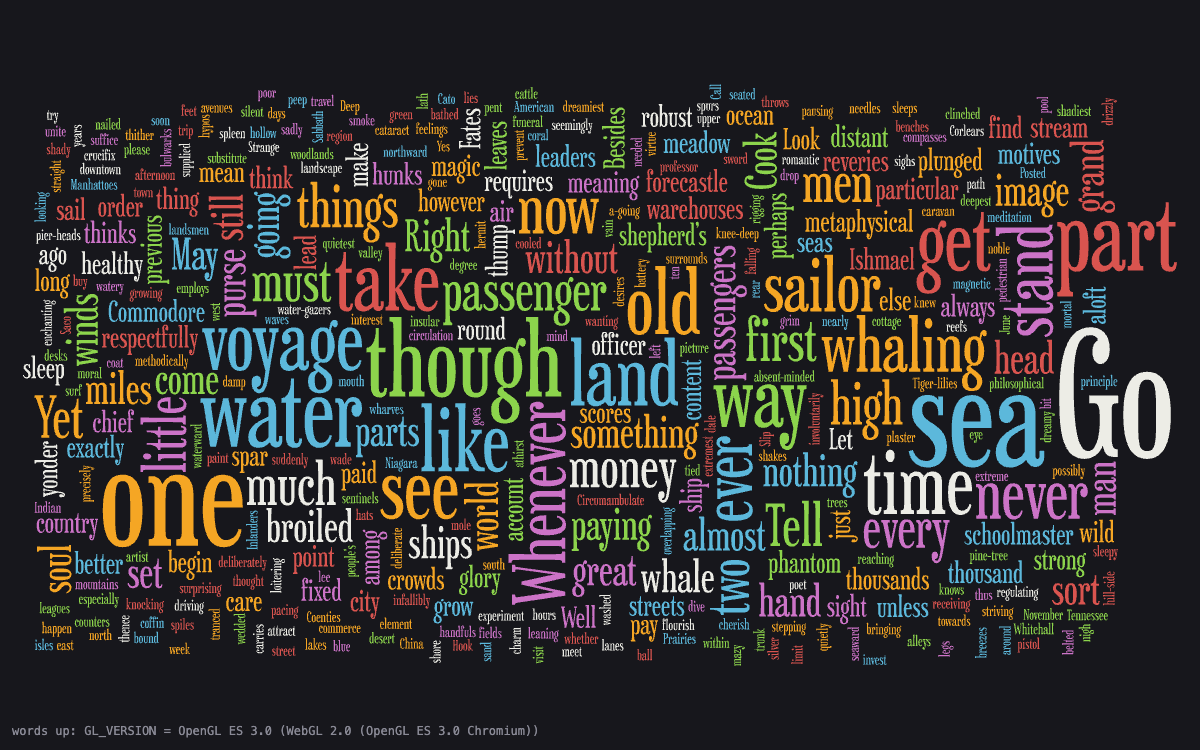
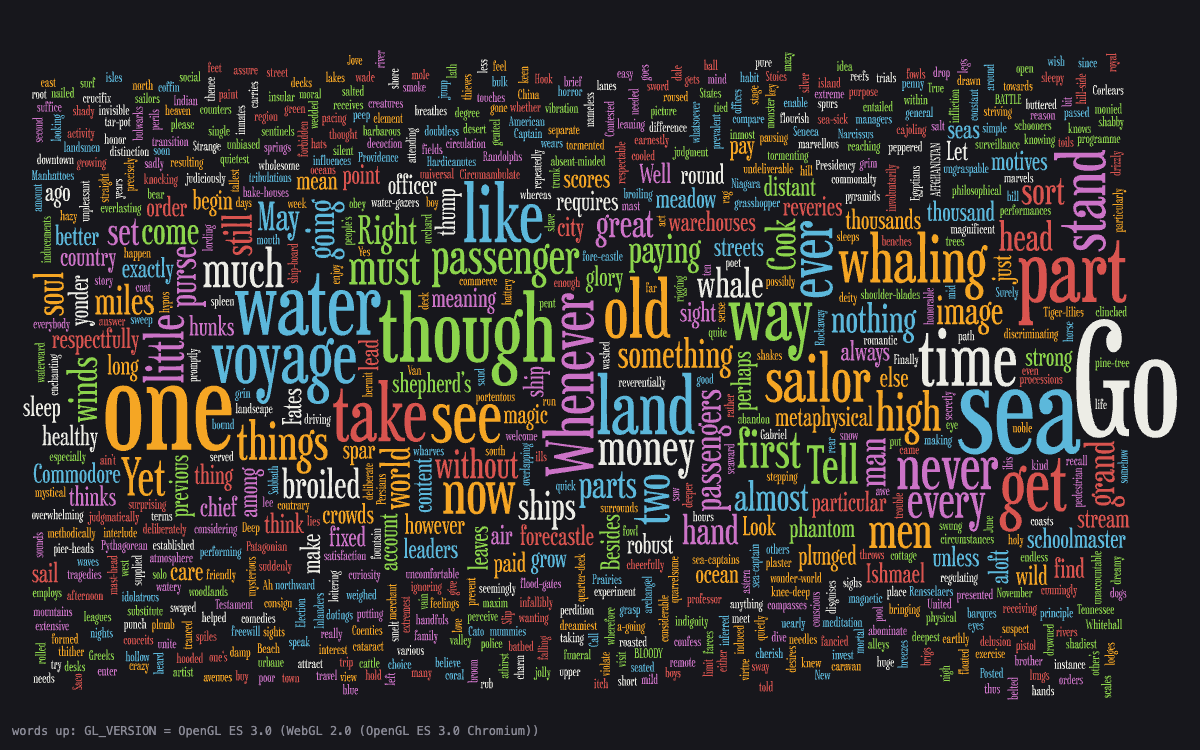
Densify: allow 800 words per cloud, benchmark layout by density
buildCloudFromText's default cap goes 400 -> 800, which lets nearly every
surviving word of the Moby-Dick sample into the cloud. New benchmarks:
BM_LayoutText/{150,400,800} lays out the real sample text (shaping
excluded) and BM_CloudFromText/800 measures the whole pipeline. Density
scaling is roughly linear -- 42/93/194 ms wasm for 150/400/800 words;
the full text->pixels pipeline is 371 ms. Also adds the word_counts host
CLI (app-exact word model, TSV out) as the corpus-building backend.

diff --git a/bench/word_bench.cc b/bench/word_bench.cc
@@ -7,13 +7,21 @@
 #include <clipper2/clipper.h>
 #include <cstddef>
 
+#include <algorithm>
 #include <cmath>
+#include <fstream>
 #include <numbers>
+#include <random>
+#include <sstream>
+#include <string>
 #include <vector>
 
 #include "box.h"
+#include "demo_scene.h"
 #include "layout.h"
+#include "scene.h"
 #include "shape.h"
+#include "text.h"
 #include "word.h"
 
 namespace {
@@ -113,6 +121,70 @@ void BM_Layout(benchmark::State& state) {
   state.SetItemsProcessed(state.iterations() * shaped.size());
 }
 BENCHMARK(BM_Layout)->Unit(benchmark::kMillisecond);
+
+// Layout of a real text's cloud at increasing density (shaping excluded):
+// the Moby-Dick sample, sized and oriented exactly as the app does it.
+// Range arg = word cap. This is where superlinear growth shows up — later
+// words spiral through ever-denser occupancy before finding a home.
+void BM_LayoutText(benchmark::State& state) {
+  std::ifstream in("assets/sample-text.txt");
+  std::ostringstream ss;
+  ss << in.rdbuf();
+  std::string text = ss.str();
+  words::StopWordsSet stopSets("assets/stopwords");
+  std::vector<words::WordCount> counts =
+      words::countWords(text, stopSets.guess(text));
+  size_t cap = std::min(counts.size(), static_cast<size_t>(state.range(0)));
+  counts.resize(cap);
+
+  std::mt19937 rng(20080623);
+  std::uniform_real_distribution<double> unit(0.0, 1.0);
+  std::vector<words::ShapedText> shaped;
+  std::vector<double> scales;
+  std::vector<double> angles;
+  double maxCount = counts[0].count;
+  for (const words::WordCount& wc : counts) {
+    shaped.push_back(words::shapeText(kFont, wc.display));
+    double em = std::max(60.0, 1000.0 * wc.count / maxCount);
+    scales.push_back(em / shaped.back().upem);
+    angles.push_back(unit(rng) < 0.25 ? std::numbers::pi / 2.0 : 0.0);
+  }
+
+  for (auto _ : state) {
+    state.PauseTiming();
+    std::vector<words::Word> wordList;
+    double totalArea = 0;
+    for (size_t i = 0; i < shaped.size(); ++i) {
+      wordList.emplace_back(shaped[i], scales[i], angles[i]);
+      const words::Box& b = wordList.back().localBounds();
+      totalArea += b.width() * b.height();
+    }
+    double w = std::sqrt(1.6 * totalArea) * 1.2;
+    double h = std::sqrt(totalArea / 1.6) * 1.5;
+    words::Box world{-w / 2, -h / 2, w / 2, h / 2};
+    state.ResumeTiming();
+    words::layoutWords(wordList, world);
+    benchmark::DoNotOptimize(wordList);
+  }
+  state.SetItemsProcessed(state.iterations() * shaped.size());
+}
+BENCHMARK(BM_LayoutText)->Arg(150)->Arg(400)->Arg(800)->Unit(
+    benchmark::kMillisecond);
+
+// The whole app startup cost after the GL context: stop-list loading,
+// language guessing, counting, shaping every word, HBBs, and layout.
+void BM_CloudFromText(benchmark::State& state) {
+  std::ifstream in("assets/sample-text.txt");
+  std::ostringstream ss;
+  ss << in.rdbuf();
+  std::string text = ss.str();
+  for (auto _ : state) {
+    words::Scene scene = words::buildCloudFromText(
+        kFont, "assets/stopwords", text, state.range(0));
+    benchmark::DoNotOptimize(scene);
+  }
+}
+BENCHMARK(BM_CloudFromText)->Arg(800)->Unit(benchmark::kMillisecond);
 
 // The per-frame collision query: triangle polygon vs a word's root box.
 void BM_BoxIntersects(benchmark::State& state) {

diff --git a/tools/word_counts_main.cc b/tools/word_counts_main.cc
@@ -1,0 +1,46 @@
+// word_counts: counts the words of a UTF-8 text file with the app's exact
+// word model (cue.language tokenization, folded keys, first-seen display
+// casing) and writes TSV to stdout — the corpus-building backend for
+// tools/make-corpus.py. Stop words are NOT removed; the guessed language is
+// reported in the header so consumers can apply the right stop list.
+//
+// Usage: word_counts <text-file> <stopwords-dir>
+
+#include <cstdio>
+#include <fstream>
+#include <sstream>
+#include <string>
+#include <vector>
+
+#include "text.h"
+
+int main(int argc, char** argv) {
+  if (argc != 3) {
+    std::fprintf(stderr, "usage: %s <text-file> <stopwords-dir>\n", argv[0]);
+    return 2;
+  }
+
+  std::ifstream in(argv[1]);
+  if (!in) {
+    std::fprintf(stderr, "cannot read %s\n", argv[1]);
+    return 1;
+  }
+  std::ostringstream ss;
+  ss << in.rdbuf();
+  std::string text = ss.str();
+
+  words::StopWordsSet stopSets(argv[2]);
+  const words::StopWords* language = stopSets.guess(text);
+  std::vector<words::WordCount> counts = words::countWords(text);
+
+  int tokens = 0;
+  for (const words::WordCount& wc : counts) tokens += wc.count;
+  std::printf("# language-guess: %s\n",
+              language ? language->name().c_str() : "unknown");
+  std::printf("# tokens: %d\n", tokens);
+  std::printf("# distinct: %zu\n", counts.size());
+  for (const words::WordCount& wc : counts) {
+    std::printf("%s\t%d\n", wc.display.c_str(), wc.count);
+  }
+  return 0;
+}

diff --git a/src/demo_scene.h b/src/demo_scene.h
@@ -21,7 +21,7 @@ Scene buildCloudScene(const std::string& fontPath);
 // out. Deterministic for fixed inputs.
 Scene buildCloudFromText(const std::string& fontPath,
                          const std::string& stopWordsDir,
-                         std::string_view text, size_t maxWords = 400,
+                         std::string_view text, size_t maxWords = 800,
                          LayoutDebug* debug = nullptr);
 
 }  // namespace words